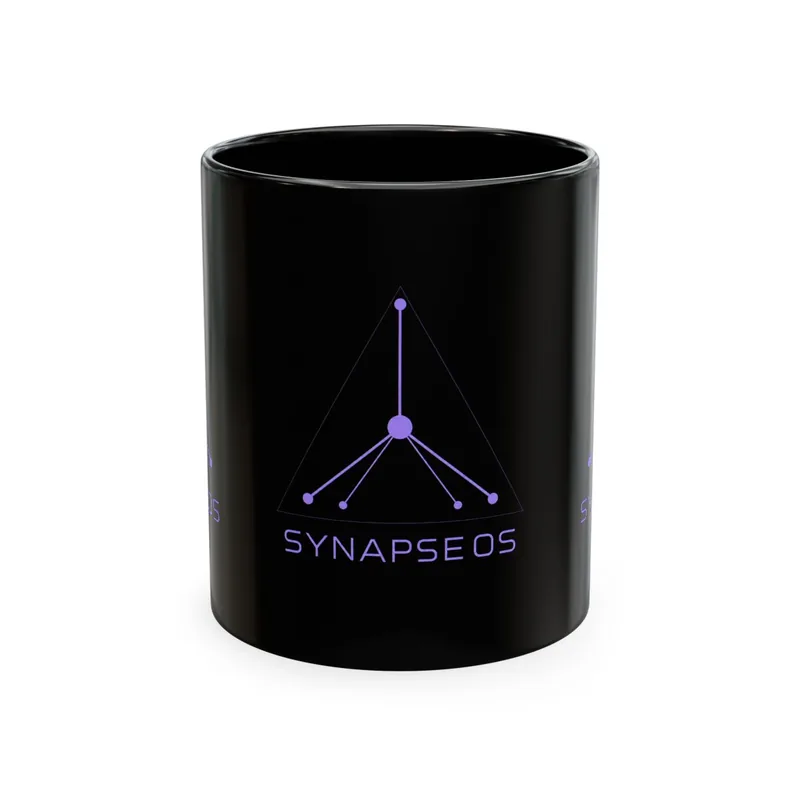
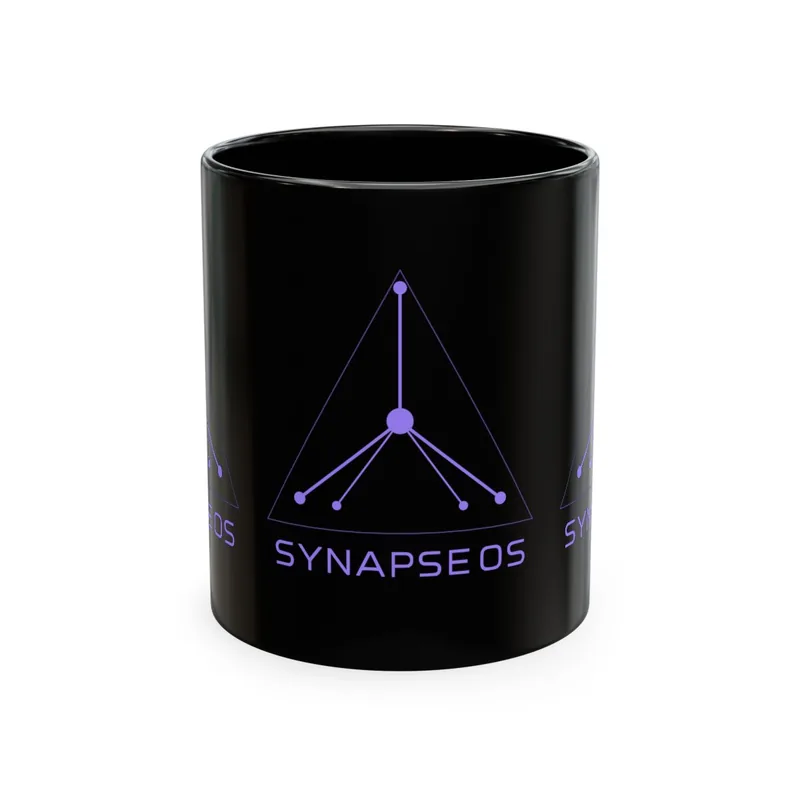
Refresh the merch shots and the social card's wordmark
The four product mockups were regenerated after the logo got a quality
pass, so the vendored copies were showing the older, thinner artwork.
Pulled the current mockups from the store and re-encoded them at 800x800.
The glass mug now uses the side camera rather than the store's default
three-mug context shot, which reads badly at tile size.

/assets/* is served immutable for a year, so each img src carries
?v=2026-08-22 — without it the new files reach first-time visitors only
and everyone who has been here before keeps the old ones.

Two prices were wrong. The sticker read $20.94 against $4.09 for its
smallest size, and the night light $17.82 against $13.72. Both are ranges,
so both now say "from", and the note says that is what the number means.

og.png carried the wordmark set in a substituted bold font. The brand
lockup has the real traced letterforms now, so the title is the vector
wordmark, which is also what is printed on the merch. Background under
the old title reconstructed by interpolating the gradient, so nothing
else in the card moved. Its URL is version-bumped too, in the three
places it appears.

Also a line noting the store has grown past the four shown — t-shirt,
hoodie, trucker hat, kiss-cut stickers, socks. No tiles for them.

diff --git a/public/index.html b/public/index.html
@@ -20,7 +20,7 @@
 <meta property="og:title" content="SynapseOS — Arch Linux with a local LLM in the system layer">
 <meta property="og:description" content="An Arch-based Linux distribution that runs a local LLM as a system service: AI-native shell, wlroots Wayland desktop, security monitor, kernel module. No cloud, no API keys.">
 <meta property="og:url" content="https://soslinux.org/">
-<meta property="og:image" content="https://soslinux.org/assets/og.png">
+<meta property="og:image" content="https://soslinux.org/assets/og.png?v=2026-08-22">
 <meta property="og:image:width" content="1200">
 <meta property="og:image:height" content="630">
 <meta property="og:image:alt" content="SynapseOS — where the kernel thinks.">
@@ -28,7 +28,7 @@
 <meta name="twitter:card" content="summary_large_image">
 <meta name="twitter:title" content="SynapseOS — Arch Linux with a local LLM in the system layer">
 <meta name="twitter:description" content="An Arch-based Linux distribution that runs a local LLM as a system service. No cloud, no API keys.">
-<meta name="twitter:image" content="https://soslinux.org/assets/og.png">
+<meta name="twitter:image" content="https://soslinux.org/assets/og.png?v=2026-08-22">
 
 <link rel="icon" href="/assets/logo.svg" type="image/svg+xml">
 <link rel="apple-touch-icon" href="/assets/apple-touch-icon.png">
@@ -59,7 +59,7 @@
       "downloadUrl": "https://github.com/velle999/SYNAPSE/releases/latest",
       "installUrl": "https://github.com/velle999/SYNAPSE/releases/latest",
       "url": "https://soslinux.org/",
-      "image": "https://soslinux.org/assets/og.png",
+      "image": "https://soslinux.org/assets/og.png?v=2026-08-22",
       "screenshot": "https://soslinux.org/assets/synui-desktop.webp",
       "license": "https://www.gnu.org/licenses/old-licenses/gpl-2.0.html",
       "isAccessibleForFree": true,
@@ -706,7 +706,7 @@ QEMU_RAM=8G ./archiso/build_scripts/qemu-test.sh</code></pre>
     <ul class="merch" role="list">
         <li>
           <a href="https://shop.soslinux.org/product/31004920" rel="noopener">
-            <img src="/assets/merch/ceramic-mug.webp" alt="" width="800" height="800"
+            <img src="/assets/merch/ceramic-mug.webp?v=2026-08-22" alt="" width="800" height="800"
                  loading="lazy" decoding="async">
             <span class="name">SynapseOS Logo Ceramic Mug</span>
             <span class="price">$12.40</span>
@@ -714,35 +714,39 @@ QEMU_RAM=8G ./archiso/build_scripts/qemu-test.sh</code></pre>
         </li>
         <li>
           <a href="https://shop.soslinux.org/product/31069981" rel="noopener">
-            <img src="/assets/merch/night-light.webp" alt="" width="800" height="800"
+            <img src="/assets/merch/night-light.webp?v=2026-08-22" alt="" width="800" height="800"
                  loading="lazy" decoding="async">
             <span class="name">Custom UV Acrylic Night Light</span>
-            <span class="price">$17.82</span>
+            <span class="price">from $13.72</span>
           </a>
         </li>
         <li>
           <a href="https://shop.soslinux.org/product/31033438" rel="noopener">
-            <img src="/assets/merch/sticker.webp" alt="" width="800" height="800"
+            <img src="/assets/merch/sticker.webp?v=2026-08-22" alt="" width="800" height="800"
                  loading="lazy" decoding="async">
             <span class="name">SynapseOS Purple Logo Vinyl Sticker</span>
-            <span class="price">$20.94</span>
+            <span class="price">from $4.09</span>
           </a>
         </li>
         <li>
           <a href="https://shop.soslinux.org/product/31070109" rel="noopener">
-            <img src="/assets/merch/glass-mug.webp" alt="" width="800" height="800"
+            <img src="/assets/merch/glass-mug.webp?v=2026-08-22" alt="" width="800" height="800"
                  loading="lazy" decoding="async">
             <span class="name">SynapseOS Glass Mug, 10&nbsp;oz</span>
             <span class="price">$26.10</span>
           </a>
         </li>
     </ul>
+    <p>
+      There is more in the store than the four above &mdash; a t&#8209;shirt, a hoodie, a
+      trucker hat, kiss&#8209;cut stickers and a pair of socks, all carrying the same mark.
+    </p>
     <div class="cta">
       <a class="btn btn-primary" href="https://shop.soslinux.org/" rel="noopener">Visit the store</a>
     </div>
     <p class="merch-note">
       Prices are copied here for convenience and can drift &mdash; the store is the one
-      that is right.
+      that is right. Anything with sizes shows its cheapest.
     </p>
   </section>
 
